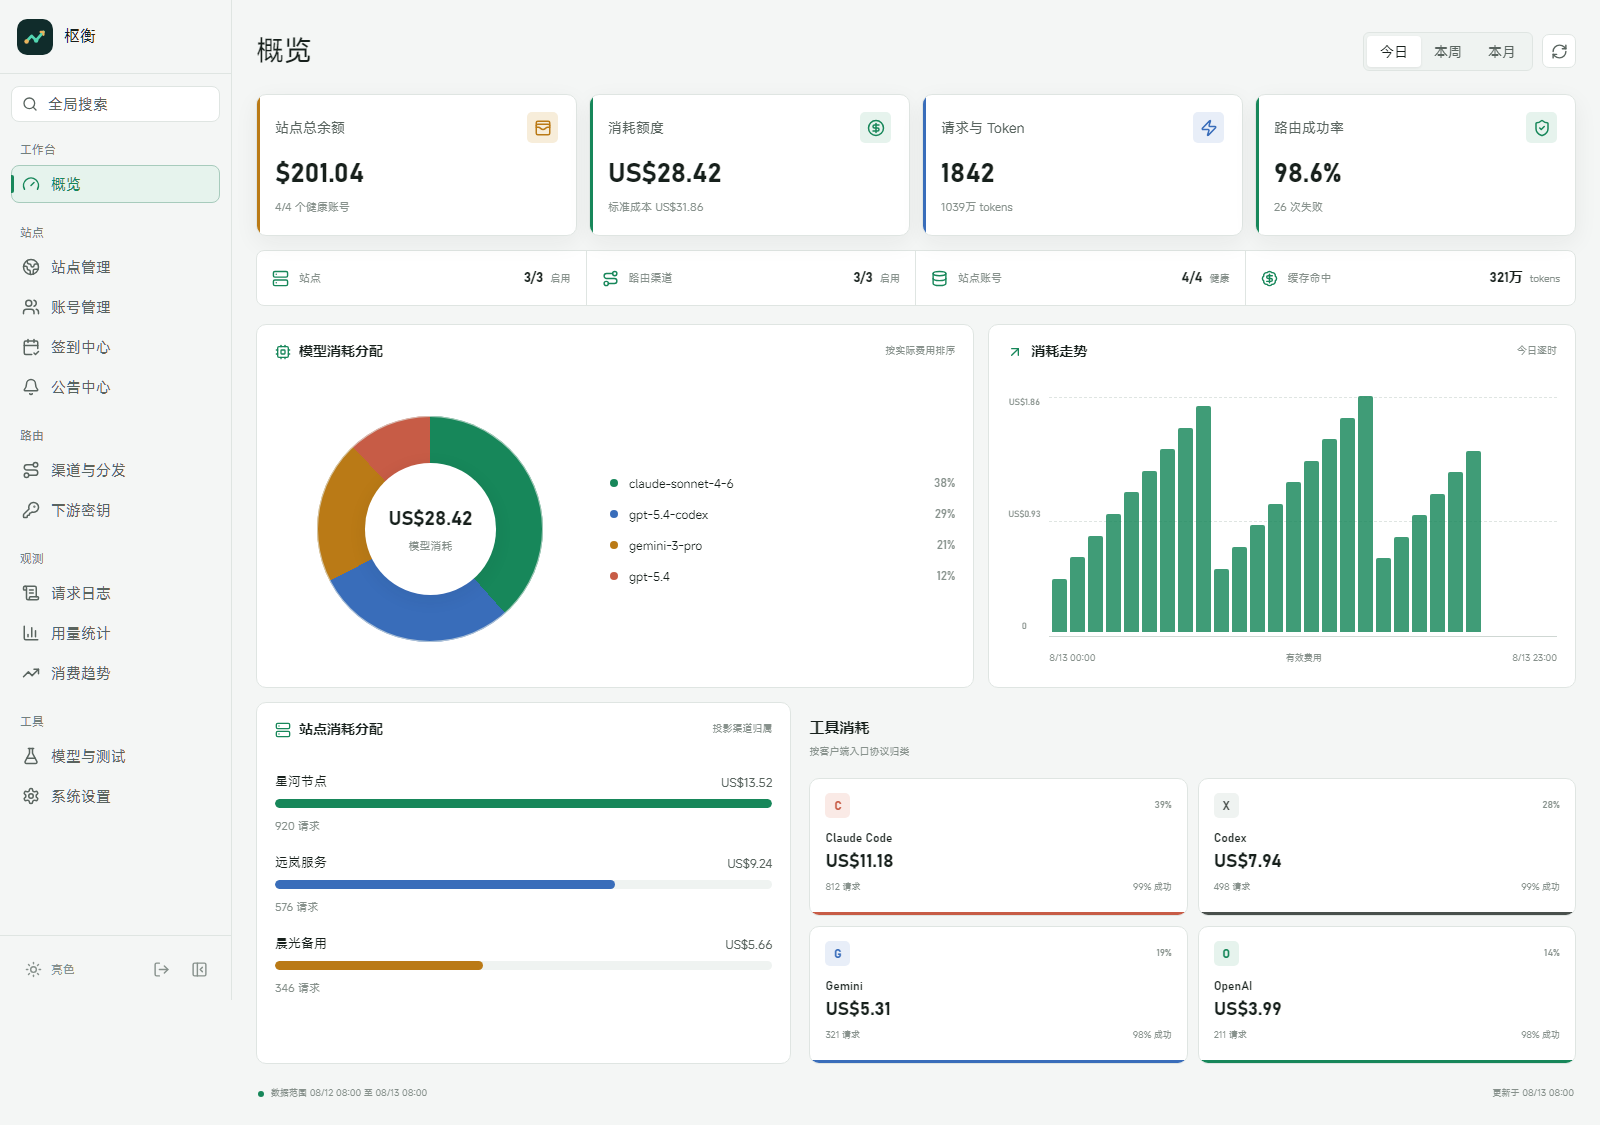
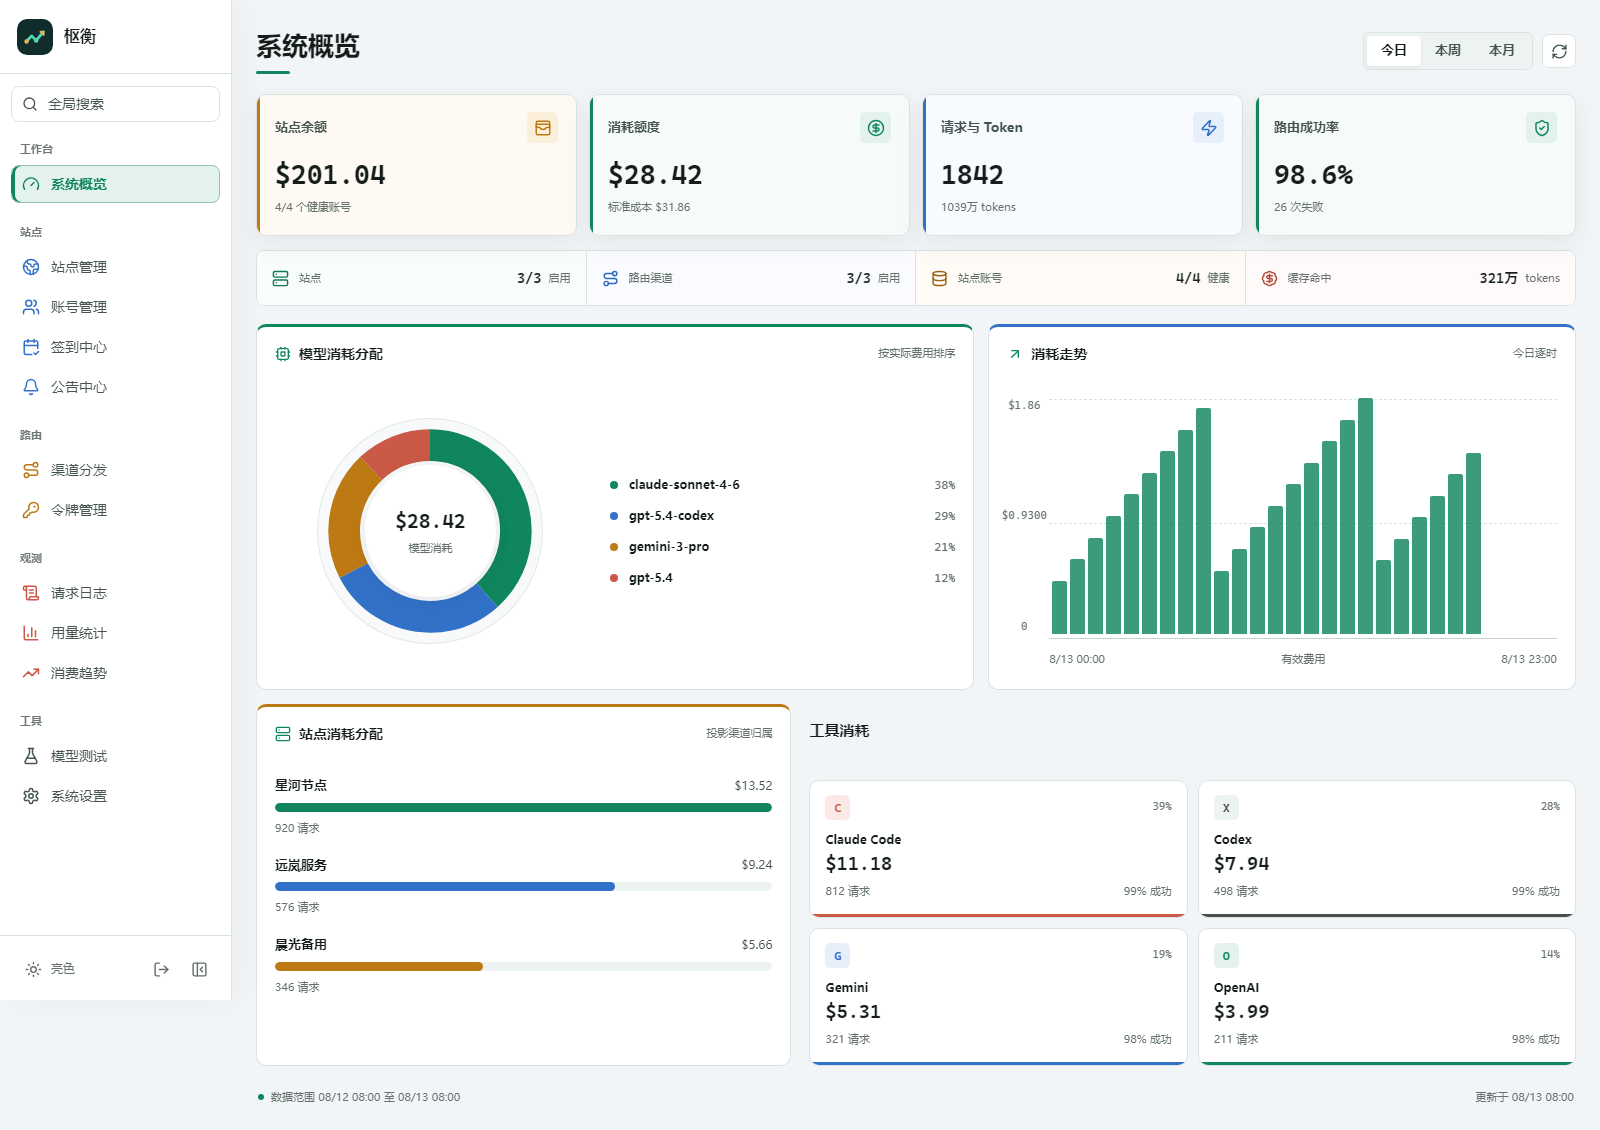
docs: 更新控制台截图至 v0.2.0 界面
- 修复截图脚本认证问题（拦截 /dashboard/session 和 /admin/site-inventory）
- 更新 dashboard/cover/routing/sites-and-accounts 四张截图
- 反映当前版本界面变化

diff --git a/scripts/docs_screenshots.py b/scripts/docs_screenshots.py
@@ -261,8 +261,17 @@ def envelope(data, count=None):
 def mock_admin(route: Route):
     parsed = urlparse(route.request.url)
     path = parsed.path
-    if path == "/admin/dashboard":
+    if path == "/dashboard/session":
+        payload = {"success": True, "data": {"role": "admin"}}
+    elif path == "/admin/dashboard":
         payload = envelope(DASHBOARD)
+    elif path == "/admin/site-inventory":
+        all_accounts = []
+        for accounts in ACCOUNTS.values():
+            all_accounts.extend(accounts)
+        payload = envelope({"sites": SITES, "accounts": all_accounts})
+    elif path == "/admin/verify":
+        payload = {"success": True, "authenticated": True}
     elif path == "/admin/sites":
         payload = envelope(SITES, len(SITES))
     elif path.startswith("/admin/sites/") and path.endswith("/accounts"):
@@ -282,8 +291,9 @@ def mock_admin(route: Route):
 def prepare_page(context, hash_path: str):
     page = context.new_page()
     page.route("**/admin/**", mock_admin)
-    page.goto(f"{BASE_URL}/web/console/#{hash_path}", wait_until="networkidle")
-    page.wait_for_timeout(500)
+    page.route("**/dashboard/**", mock_admin)
+    page.goto(f"{BASE_URL}/web/console/#{hash_path}", wait_until="domcontentloaded", timeout=60000)
+    page.wait_for_timeout(2000)
     return page
 
 
